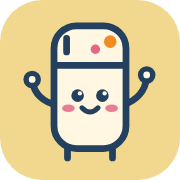
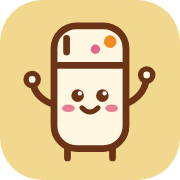
Replace navy with warm cocoa brown text and a chocolate dark mode
Claude-Session: https://claude.ai/code/session_01WJfPfSmd67gdst9Dw1of8c

diff --git a/css/styles.css b/css/styles.css
@@ -1,14 +1,14 @@
 :root {
   /* Palette: Tangerine #F08C21, Butter #F2D88F, Blush #E36888, Sea #6698CC, Matcha #B4B534.
-     Text uses a deep navy darkened from Sea so it stays readable on Butter. */
+     Text uses a warm cocoa brown (deepened Tangerine) so it stays lively and readable on Butter. */
   --bg: #f2d88f;
   --blob-1: #f2d88f;
   --blob-2: #f2d88f;
   --blob-3: #f2d88f;
   --surface: #fff7e2;
   --surface-2: #faecc4;
-  --text: #24405f;
-  --muted: #45658a;
+  --text: #6b3416;
+  --muted: #9a5b2c;
   --border: #e6c97a;
   /* named slots from earlier palettes, now mapped onto the five colours */
   --olive: #b4b534;
@@ -19,7 +19,7 @@
   --coral: #f08c21;
   --accent: #f08c21;
   --accent-deep: #d8760c;
-  --accent-ink: #1f3550;
+  --accent-ink: #5a2a0e;
   --accent-soft: #fbdcb5;
   --pink-soft: #f8d3dc;
   --warn: #b65f06;
@@ -31,7 +31,7 @@
   --pantry: #8c8d1a;
   --radius: 28px;
   --radius-sm: 18px;
-  --shadow: 0 1px 2px rgb(36 64 95 / 5%), 0 14px 34px -22px rgb(36 64 95 / 30%);
+  --shadow: 0 1px 2px rgb(107 52 22 / 5%), 0 14px 34px -22px rgb(107 52 22 / 30%);
   --press: none;
 
   /* fridge (Sea), pantry (Matcha) */
@@ -51,15 +51,15 @@
 
 @media (prefers-color-scheme: dark) {
   :root:not([data-theme="light"]) {
-    --bg: #1d2a3d;
-    --blob-1: #1d2a3d;
-    --blob-2: #1d2a3d;
-    --blob-3: #1d2a3d;
-    --surface: #26364d;
-    --surface-2: #2f415b;
+    --bg: #2a1a12;
+    --blob-1: #2a1a12;
+    --blob-2: #2a1a12;
+    --blob-3: #2a1a12;
+    --surface: #3a251a;
+    --surface-2: #4a3022;
     --text: #f2d88f;
-    --muted: #b7c7dc;
-    --border: #3a4d68;
+    --muted: #ecc9a0;
+    --border: #5a3b2a;
     --olive: #c9ca4f;
     --raspberry: #ec85a1;
     --sun: #f2d88f;
@@ -68,7 +68,7 @@
     --coral: #f5a04a;
     --accent: #f5a04a;
     --accent-deep: #f08c21;
-    --accent-ink: #1d2a3d;
+    --accent-ink: #2a1a12;
     --accent-soft: #4a3a2a;
     --pink-soft: #4a2d3a;
     --warn: #f5b25e;
@@ -94,15 +94,15 @@
 }
 
 :root[data-theme="dark"] {
-  --bg: #1d2a3d;
-  --blob-1: #1d2a3d;
-  --blob-2: #1d2a3d;
-  --blob-3: #1d2a3d;
-  --surface: #26364d;
-  --surface-2: #2f415b;
+  --bg: #2a1a12;
+  --blob-1: #2a1a12;
+  --blob-2: #2a1a12;
+  --blob-3: #2a1a12;
+  --surface: #3a251a;
+  --surface-2: #4a3022;
   --text: #f2d88f;
-  --muted: #b7c7dc;
-  --border: #3a4d68;
+  --muted: #ecc9a0;
+  --border: #5a3b2a;
   --olive: #c9ca4f;
   --raspberry: #ec85a1;
   --sun: #f2d88f;
@@ -111,7 +111,7 @@
   --coral: #f5a04a;
   --accent: #f5a04a;
   --accent-deep: #f08c21;
-  --accent-ink: #1d2a3d;
+  --accent-ink: #2a1a12;
   --accent-soft: #4a3a2a;
   --pink-soft: #4a2d3a;
   --warn: #f5b25e;
@@ -383,7 +383,7 @@ ol.steps li { margin-bottom: 8px; }
 .item-dialog .stepper .qty { font-family: "Funnel Sans", "Zalando Sans", system-ui, sans-serif; font-weight: 800; font-size: 1.3rem; min-width: 90px; }
 .item-dialog .where { display: flex; justify-content: center; gap: 6px; flex-wrap: wrap; margin-bottom: 12px; }
 .item-dialog .where .chip.active.loc-fridge { background: var(--fridge); color: #fff7e2; }
-.item-dialog .where .chip.active.loc-freezer { background: var(--freezer); color: #1f3550; }
+.item-dialog .where .chip.active.loc-freezer { background: var(--freezer); color: #5a2a0e; }
 .item-dialog .where .chip.active.loc-pantry { background: var(--pantry); color: #fff7e2; }
 .item-dialog .row.end { justify-content: center; }
 
@@ -647,7 +647,7 @@ ol.steps li { margin-bottom: 8px; }
   color: var(--text); padding: 6px 12px; border-radius: 999px; transition: background .15s, transform .12s;
 }
 .kw-chip:active { transform: scale(.94); }
-.kw-chip.on { background: var(--kw); border-color: var(--kw); color: #1f3550; }
+.kw-chip.on { background: var(--kw); border-color: var(--kw); color: #5a2a0e; }
 .kw-chip.on[style*="--sun"] { color: var(--text); }
 .kw-chip.clear { --kw: var(--muted); background: transparent; }
 .kw-pills { display: flex; flex-wrap: wrap; gap: 5px; }
@@ -731,7 +731,7 @@ ol.steps li { margin-bottom: 8px; }
 
 .home-hero { display: flex; align-items: center; gap: 10px; margin: 6px 0 16px; }
 .mascot-wrap { flex: none; width: 104px; animation: float 3.6s ease-in-out infinite; }
-.mascot.big { width: 100%; height: auto; display: block; filter: drop-shadow(0 8px 10px rgb(36 64 95 / 16%)); }
+.mascot.big { width: 100%; height: auto; display: block; filter: drop-shadow(0 8px 10px rgb(107 52 22 / 16%)); }
 @keyframes float { 50% { transform: translateY(-6px); } }
 .speech {
   position: relative; flex: 1; background: var(--surface); border-radius: 26px; padding: 16px 18px; box-shadow: var(--shadow);
@@ -843,9 +843,9 @@ button.group-title { width: 100%; }
    Same palette, icons and fonts; overrides the earlier, chunkier styling.
    ===================================================================== */
 :root {
-  --hair: rgb(36 64 95 / 11%);
+  --hair: rgb(107 52 22 / 11%);
   --radius: 28px;
-  --shadow: 0 1px 2px rgb(36 64 95 / 5%), 0 14px 34px -22px rgb(36 64 95 / 30%);
+  --shadow: 0 1px 2px rgb(107 52 22 / 5%), 0 14px 34px -22px rgb(107 52 22 / 30%);
   --press: none;
 }
 @media (prefers-color-scheme: dark) {
@@ -895,7 +895,7 @@ input:focus, select:focus, textarea:focus { border-color: var(--accent); box-sha
 .tabbar {
   background: color-mix(in srgb, var(--surface) 74%, transparent);
   backdrop-filter: blur(18px) saturate(1.4); -webkit-backdrop-filter: blur(18px) saturate(1.4);
-  border: 1px solid var(--hair); box-shadow: 0 18px 40px -20px rgb(36 64 95 / 35%);
+  border: 1px solid var(--hair); box-shadow: 0 18px 40px -20px rgb(107 52 22 / 35%);
 }
 .tabbar button { font-weight: 700; }
 .tabbar button.active { background: color-mix(in srgb, var(--accent) 14%, transparent); color: var(--accent-deep); }

diff --git a/index.html b/index.html
@@ -47,21 +47,21 @@
       </div>
       <div class="card assistant-card">
         <div class="mascot-wrap"><svg class="mascot big wave" viewBox="0 0 64 68" aria-hidden="true" focusable="false">
-  <g class="arm-l"><path d="M17 40C11 39 7.5 35 6.6 30.6" fill="none" stroke="#24405f" stroke-width="3" stroke-linecap="round"/>
-    <circle cx="6.3" cy="28.8" r="2.7" fill="#fff7e2" stroke="#24405f" stroke-width="2.4"/></g>
-  <g class="arm-r"><path d="M47 40C53 38 56.6 33.6 57 28.6" fill="none" stroke="#24405f" stroke-width="3" stroke-linecap="round"/>
-    <circle cx="57.2" cy="26.8" r="2.7" fill="#fff7e2" stroke="#24405f" stroke-width="2.4"/></g>
-  <path d="M22 59.5v4.2M42 59.5v4.2" stroke="#24405f" stroke-width="3" stroke-linecap="round"/>
-  <rect x="16" y="5" width="32" height="54.5" rx="10" fill="#fff7e2" stroke="#24405f" stroke-width="3"/>
-  <path d="M16 22.5H48" stroke="#24405f" stroke-width="3"/>
-  <path d="M21.6 10.6v6" stroke="#24405f" stroke-width="3" stroke-linecap="round"/>
+  <g class="arm-l"><path d="M17 40C11 39 7.5 35 6.6 30.6" fill="none" stroke="#6b3416" stroke-width="3" stroke-linecap="round"/>
+    <circle cx="6.3" cy="28.8" r="2.7" fill="#fff7e2" stroke="#6b3416" stroke-width="2.4"/></g>
+  <g class="arm-r"><path d="M47 40C53 38 56.6 33.6 57 28.6" fill="none" stroke="#6b3416" stroke-width="3" stroke-linecap="round"/>
+    <circle cx="57.2" cy="26.8" r="2.7" fill="#fff7e2" stroke="#6b3416" stroke-width="2.4"/></g>
+  <path d="M22 59.5v4.2M42 59.5v4.2" stroke="#6b3416" stroke-width="3" stroke-linecap="round"/>
+  <rect x="16" y="5" width="32" height="54.5" rx="10" fill="#fff7e2" stroke="#6b3416" stroke-width="3"/>
+  <path d="M16 22.5H48" stroke="#6b3416" stroke-width="3"/>
+  <path d="M21.6 10.6v6" stroke="#6b3416" stroke-width="3" stroke-linecap="round"/>
   <circle class="magnet m1" cx="41" cy="12" r="2.8" fill="#f08c21"/>
   <circle class="magnet m2" cx="34.4" cy="15.4" r="2.1" fill="#e36888"/>
-  <g class="eyes"><circle cx="26.5" cy="36" r="2.8" fill="#24405f"/><circle cx="37.5" cy="36" r="2.8" fill="#24405f"/>
+  <g class="eyes"><circle cx="26.5" cy="36" r="2.8" fill="#6b3416"/><circle cx="37.5" cy="36" r="2.8" fill="#6b3416"/>
     <circle cx="27.5" cy="35" r=".95" fill="#fff"/><circle cx="38.5" cy="35" r=".95" fill="#fff"/></g>
   <ellipse cx="22.4" cy="41.6" rx="2.8" ry="1.7" fill="#e36888" opacity=".85"/>
   <ellipse cx="41.6" cy="41.6" rx="2.8" ry="1.7" fill="#e36888" opacity=".85"/>
-  <path d="M28.4 41.4Q32 45.2 35.6 41.4" stroke="#24405f" stroke-width="2.2" fill="none" stroke-linecap="round"/>
+  <path d="M28.4 41.4Q32 45.2 35.6 41.4" stroke="#6b3416" stroke-width="2.2" fill="none" stroke-linecap="round"/>
   
 </svg></div>
         <p id="hello-sub" role="status" aria-live="polite"></p>
@@ -272,21 +272,21 @@
   <dialog id="name-dialog" class="name-dialog">
     <form id="name-form" autocomplete="off">
       <svg class="mascot big wave" viewBox="0 0 64 68" aria-hidden="true" focusable="false">
-  <g class="arm-l"><path d="M17 40C11 39 7.5 35 6.6 30.6" fill="none" stroke="#24405f" stroke-width="3" stroke-linecap="round"/>
-    <circle cx="6.3" cy="28.8" r="2.7" fill="#fff7e2" stroke="#24405f" stroke-width="2.4"/></g>
-  <g class="arm-r"><path d="M47 40C53 38 56.6 33.6 57 28.6" fill="none" stroke="#24405f" stroke-width="3" stroke-linecap="round"/>
-    <circle cx="57.2" cy="26.8" r="2.7" fill="#fff7e2" stroke="#24405f" stroke-width="2.4"/></g>
-  <path d="M22 59.5v4.2M42 59.5v4.2" stroke="#24405f" stroke-width="3" stroke-linecap="round"/>
-  <rect x="16" y="5" width="32" height="54.5" rx="10" fill="#fff7e2" stroke="#24405f" stroke-width="3"/>
-  <path d="M16 22.5H48" stroke="#24405f" stroke-width="3"/>
-  <path d="M21.6 10.6v6" stroke="#24405f" stroke-width="3" stroke-linecap="round"/>
+  <g class="arm-l"><path d="M17 40C11 39 7.5 35 6.6 30.6" fill="none" stroke="#6b3416" stroke-width="3" stroke-linecap="round"/>
+    <circle cx="6.3" cy="28.8" r="2.7" fill="#fff7e2" stroke="#6b3416" stroke-width="2.4"/></g>
+  <g class="arm-r"><path d="M47 40C53 38 56.6 33.6 57 28.6" fill="none" stroke="#6b3416" stroke-width="3" stroke-linecap="round"/>
+    <circle cx="57.2" cy="26.8" r="2.7" fill="#fff7e2" stroke="#6b3416" stroke-width="2.4"/></g>
+  <path d="M22 59.5v4.2M42 59.5v4.2" stroke="#6b3416" stroke-width="3" stroke-linecap="round"/>
+  <rect x="16" y="5" width="32" height="54.5" rx="10" fill="#fff7e2" stroke="#6b3416" stroke-width="3"/>
+  <path d="M16 22.5H48" stroke="#6b3416" stroke-width="3"/>
+  <path d="M21.6 10.6v6" stroke="#6b3416" stroke-width="3" stroke-linecap="round"/>
   <circle class="magnet m1" cx="41" cy="12" r="2.8" fill="#f08c21"/>
   <circle class="magnet m2" cx="34.4" cy="15.4" r="2.1" fill="#e36888"/>
-  <g class="eyes"><circle cx="26.5" cy="36" r="2.8" fill="#24405f"/><circle cx="37.5" cy="36" r="2.8" fill="#24405f"/>
+  <g class="eyes"><circle cx="26.5" cy="36" r="2.8" fill="#6b3416"/><circle cx="37.5" cy="36" r="2.8" fill="#6b3416"/>
     <circle cx="27.5" cy="35" r=".95" fill="#fff"/><circle cx="38.5" cy="35" r=".95" fill="#fff"/></g>
   <ellipse cx="22.4" cy="41.6" rx="2.8" ry="1.7" fill="#e36888" opacity=".85"/>
   <ellipse cx="41.6" cy="41.6" rx="2.8" ry="1.7" fill="#e36888" opacity=".85"/>
-  <path d="M28.4 41.4Q32 45.2 35.6 41.4" stroke="#24405f" stroke-width="2.2" fill="none" stroke-linecap="round"/>
+  <path d="M28.4 41.4Q32 45.2 35.6 41.4" stroke="#6b3416" stroke-width="2.2" fill="none" stroke-linecap="round"/>
   
 </svg>
       <h2>Hi! I'm your fridge.</h2>

diff --git a/js/mascot.js b/js/mascot.js
@@ -2,7 +2,7 @@
 // Used in the header, on the Home page, in the opening splash and when it asks your name.
 
 export function mascotSvg(cls = "mascot", { sparkle = false } = {}) {
-  const ink = "#24405f";
+  const ink = "#6b3416";
   return `<svg class="${cls}" viewBox="0 0 64 68" aria-hidden="true" focusable="false">
   <g class="arm-l"><path d="M17 40C11 39 7.5 35 6.6 30.6" fill="none" stroke="${ink}" stroke-width="3" stroke-linecap="round"/>
     <circle cx="6.3" cy="28.8" r="2.7" fill="#fff7e2" stroke="${ink}" stroke-width="2.4"/></g>

diff --git a/CLAUDE.md b/CLAUDE.md
@@ -63,8 +63,8 @@ current ones: `sample` (with `images: true`), `db` and `user`.
 ## Design system
 
 - Palette: Tangerine `#F08C21` (accent), Butter `#F2D88F` (solid page background), Blush `#E36888`,
-  Sea `#6698CC`, Matcha `#B4B534`. Text is deep navy `#24405f` (darkened Sea) for readability; cards
-  are light Butter cream `#fff7e2`. Dark mode: navy `#1d2a3d` with Butter text.
+  Sea `#6698CC`, Matcha `#B4B534`. Text is warm cocoa brown `#6b3416` (deepened Tangerine; muted `#9a5b2c`). The owner dislikes navy: never use it; cards
+  are light Butter cream `#fff7e2`. Dark mode: deep chocolate `#2a1a12` (cards `#3a251a`) with Butter text.
 - Older token names are kept and remapped: `--olive` Matcha, `--raspberry`/`--pink` Blush,
   `--lilac` Sea, `--coral` Tangerine, `--sun` deeper Butter.
 - Meaning colours: missing ingredients and dinner Blush, frozen food Sea blue, fridge and freezer
